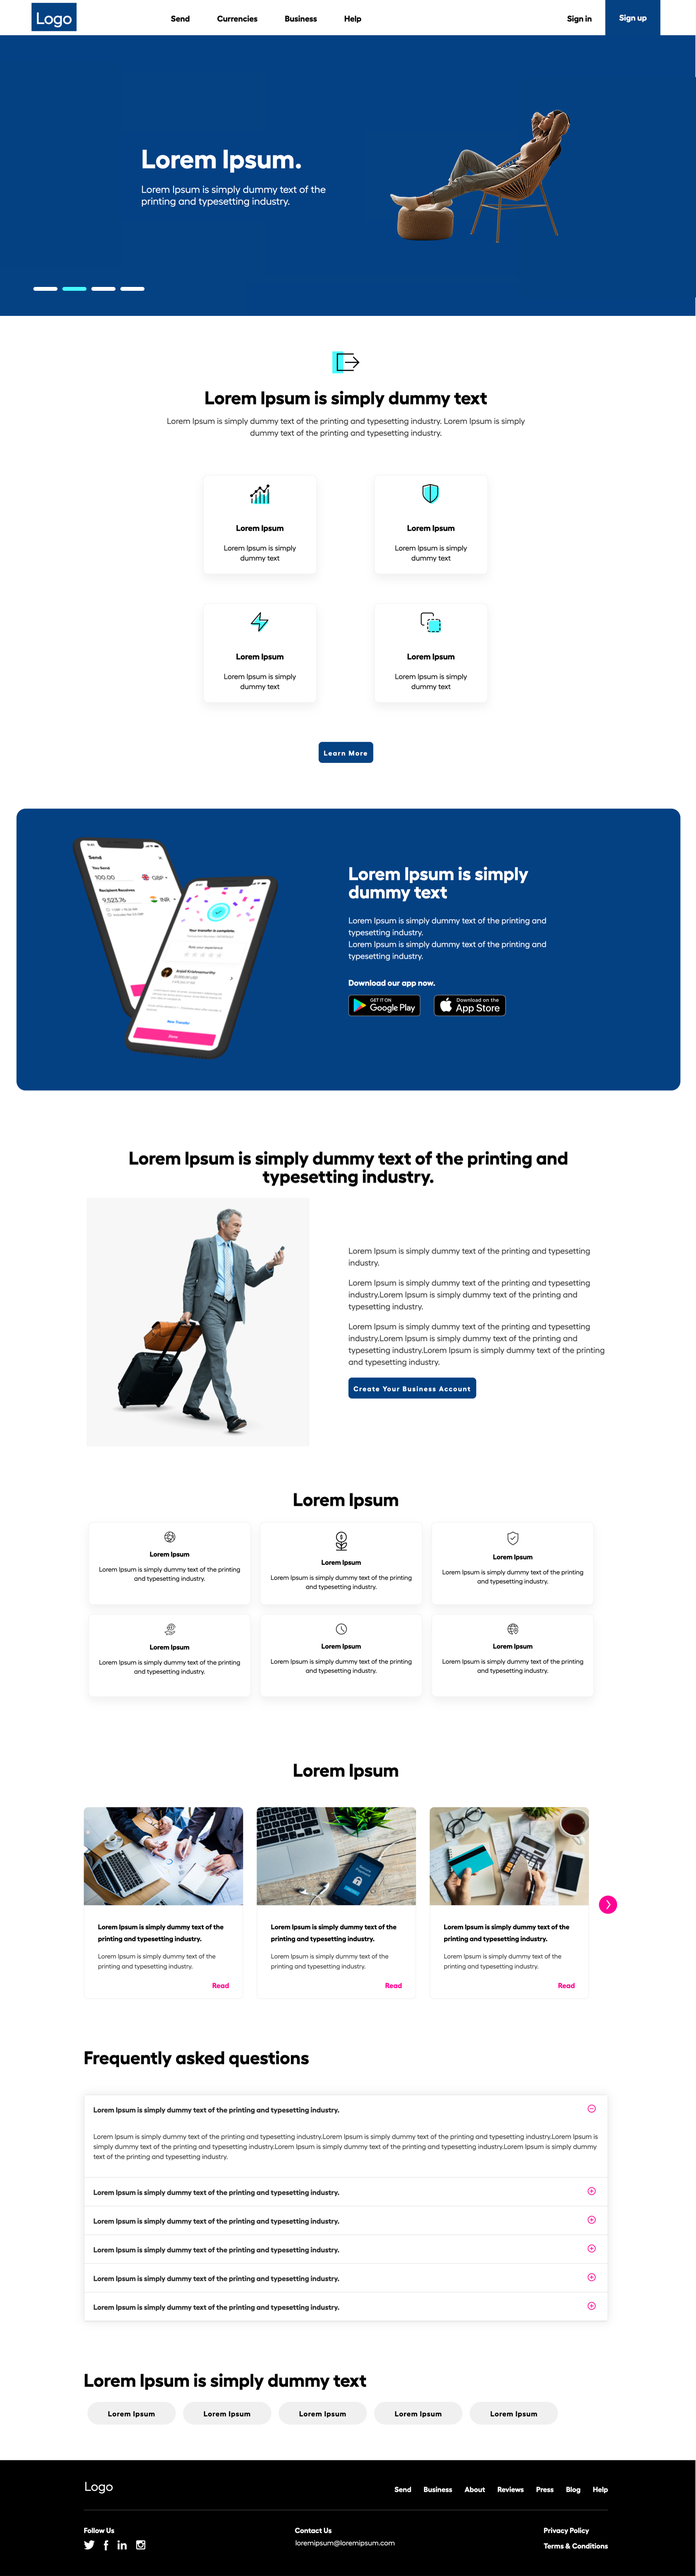
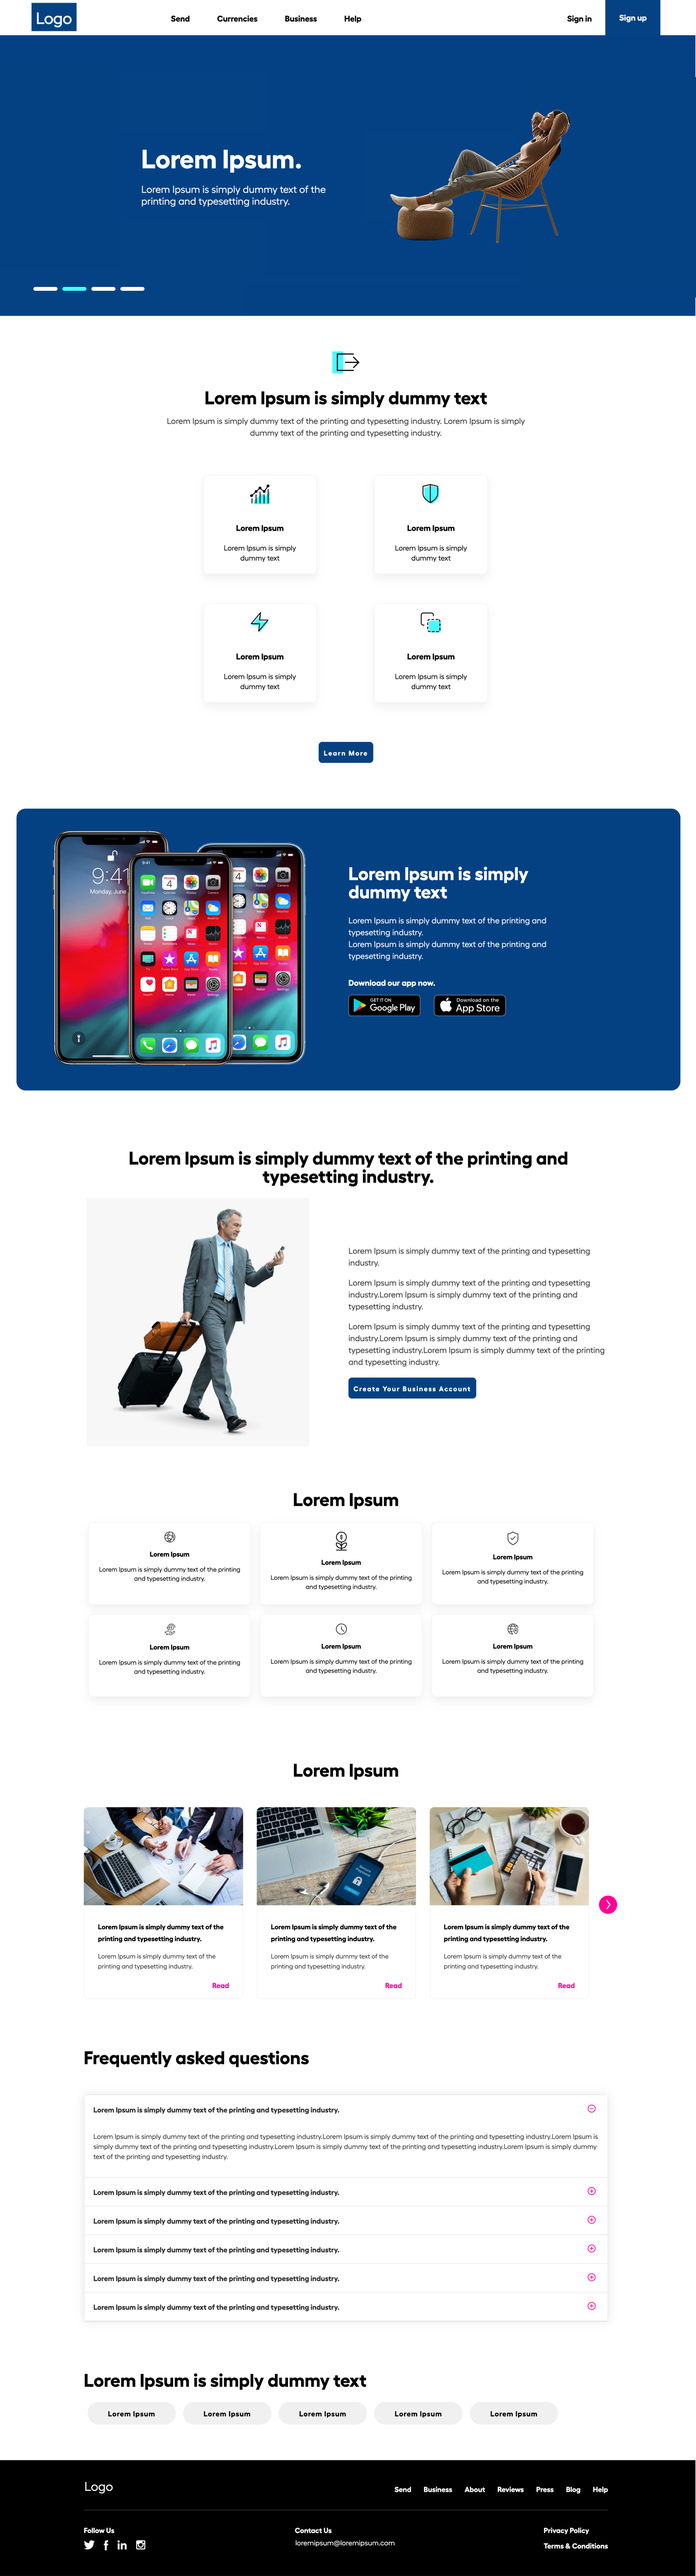
image replace + text

Changed region(s): [[0.0625, 0.3118, 0.4375, 0.4365]]

diff --git a/index.html b/index.html
@@ -84,8 +84,8 @@
           </div>
           <div class="col-sm-5 col-12 rgt">
             <h5 class="mar-bottom-20">Transfer Money App - B2C</h5>
-            <p>Send Money App</p>
-            <a href="/sendmoney/" target="_blank" class="cta text mar-top-30">Read More</a>
+            <p>Sending money to your loved ones or around the world just got more simpler. It provides a fast and convenient way to transfer money.</p>
+            <a href="/sendmoney/" target="_blank" class="cta text mar-top-30">View More</a>
           </div>
         </div>
         <div class="row justify-content-around project even-prj" >
@@ -97,7 +97,7 @@
           <div class="col-sm-5 col-12 rgt">
             <h5 class="mar-bottom-20">Transfer Money - SME</h5>
             <p>SME Portal</p>
-            <a href="/sme/" target="_blank" class="cta text mar-top-30">Read More</a>
+            <a href="/sme/" target="_blank" class="cta text mar-top-30">View More</a>
           </div>
         </div>
         <div class="row justify-content-around project">
@@ -109,7 +109,7 @@
           <div class="col-sm-5 col-12 rgt">
             <h5 class="mar-bottom-20">Transfer Money - B2C</h5>
             <p>Landing Page</p>
-            <a href="/sendmoney-lp/" target="_blank" class="cta text mar-top-30">Read More</a>
+            <a href="/sendmoney-lp/" target="_blank" class="cta text mar-top-30">View More</a>
           </div>
         </div>
         <div class="row justify-content-around project even-prj" >
@@ -121,7 +121,7 @@
           <div class="col-sm-5 col-12 rgt">
             <h5 class="mar-bottom-20">Rivigo Express</h5>
             <p>RIVIGO Express is a one-stop solution for all your shipping related needs. With over 29,000+ pin codes serviced through 4,000+ self-owned trucks. </br>RIVIGO is a new age technology enabled company ensuring fastest delivery times (30% lower than competition) and record lowest damages (5x lower than competition).</p>
-            <a href="/rivigo-express/" target="_blank" class="cta text mar-top-30">Read More</a>
+            <a href="/rivigo-express/" target="_blank" class="cta text mar-top-30">View More</a>
           </div>
         </div>
         <div class="row justify-content-around project">
@@ -133,7 +133,7 @@
           <div class="col-sm-5 col-12 rgt">
             <h5 class="mar-bottom-20">TrekMate</h5>
             <p>TrekMate is an app which helps you to trek on your own, i.e without any help of any guide/person. Just need your phone with GPS inbuilt and with enough battery, It can help you without GPS as well.</p>
-            <a href="/trekmate/" target="_blank" class="cta text mar-top-30">Read More</a>
+            <a href="/trekmate/" target="_blank" class="cta text mar-top-30">View More</a>
           </div>
         </div>
         <div class="row justify-content-around project even-prj">
@@ -145,7 +145,7 @@
           <div class="col-sm-5 col-12 rgt">
             <h5 class="mar-bottom-20">Customer Suppport - Mobikwik</h5>
             <p>A query/ticketing system which helps user to solve their query very efficeintly and very quickly without taking help from others.</p>
-            <a href="/mobikwik-customer-support/" target="_blank" class="cta text mar-top-30">Read More</a>
+            <a href="/mobikwik-customer-support/" target="_blank" class="cta text mar-top-30">View More</a>
           </div>
         </div>
         <div class="row justify-content-around project">
@@ -157,7 +157,7 @@
           <div class="col-sm-5 col-12 rgt">
             <h5 class="mar-bottom-20">National Freight Index</h5>
             <p>The National Freight Index (NFI) is a comprehensive barometer of the road freight spot market in India. NFI offers an aggregated picture of both live rates and historical trends of spot price movements in the road freight industry.</p>
-            <a href="/national-freight-index/" target="_blank" class="cta text mar-top-30">Read More</a>
+            <a href="/national-freight-index/" target="_blank" class="cta text mar-top-30">View More</a>
           </div>
         </div>
       </div>

diff --git a/sendmoney/index.html b/sendmoney/index.html
@@ -56,7 +56,7 @@
           <div class='cat col-12'>
             <h1 class="text-center mar-bottom-30">Send Money App</h1>
             <h5>OVERVIEW</h5>
-            <p class="text">TrekMate is an app which helps you to trek on your own, I.e without any help of any guide/person. Just need your phone with GPS inbuilt and with enough battery ofcourse. </br>It helps you to plan your trek accordingly, provided better weather and feasible condition. It tells you which season is better for doing the trek.</p>
+            <p class="text">Sending money to your loved ones or around the world just got more simpler. It provides a fast and convenient way to transfer money.</p>
           </div>
         </div>
         <div class="row">
